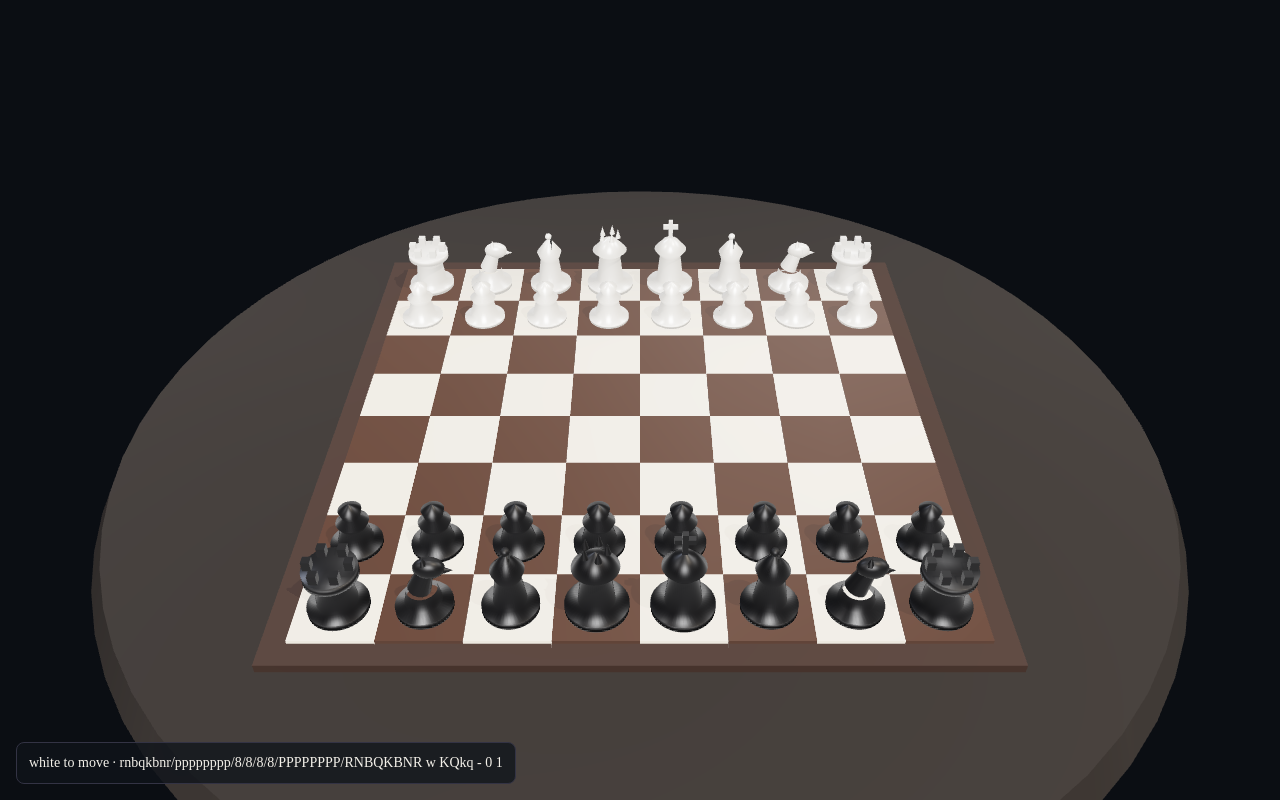
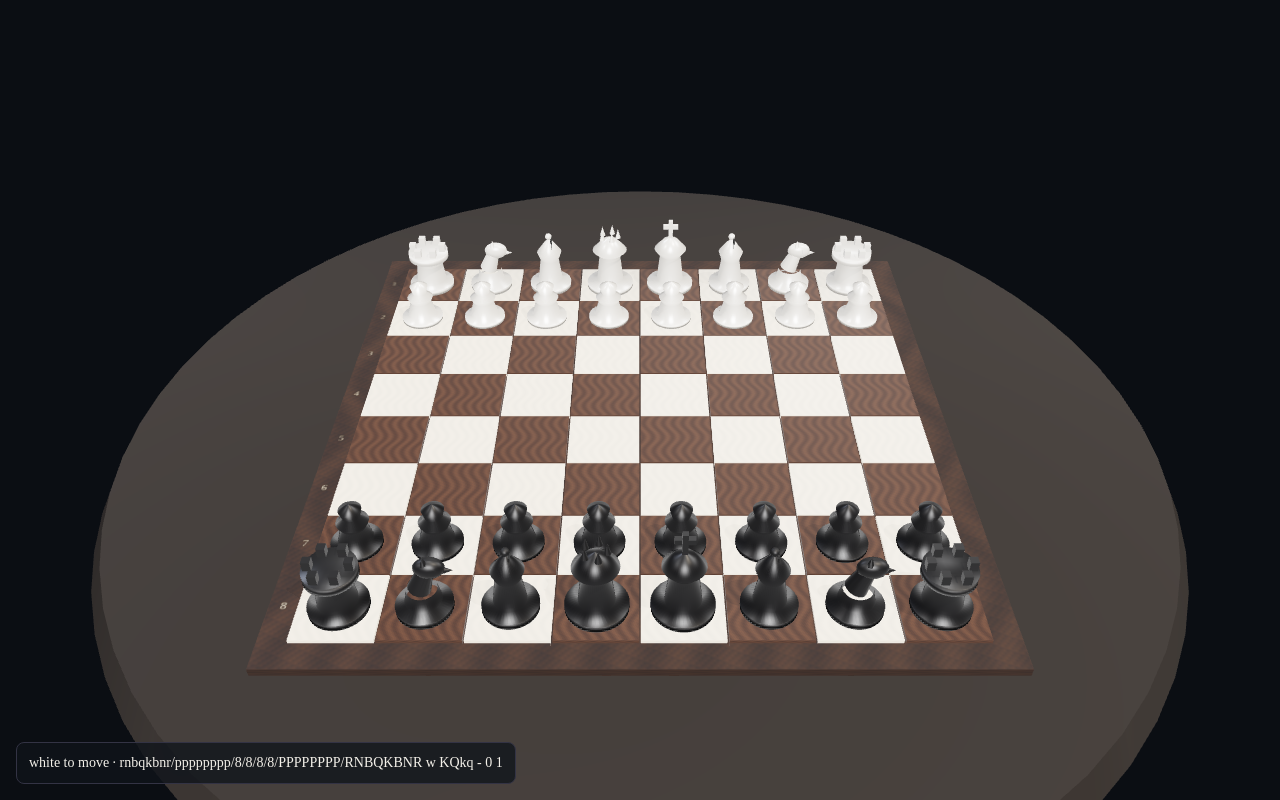
Add wood-grain board, labels, and clearcoat piece materials

diff --git a/board/index.js b/board/index.js
@@ -1,21 +1,63 @@
 import * as THREE from "three";
 
+function woodMap(base, variance, size = 128) {
+  const canvas = document.createElement("canvas");
+  canvas.width = size;
+  canvas.height = size;
+  const ctx = canvas.getContext("2d");
+  const img = ctx.createImageData(size, size);
+  const [br, bg, bb] = base;
+  for (let y = 0; y < size; y += 1) {
+    for (let x = 0; x < size; x += 1) {
+      const grain = Math.sin(x * 0.35 + Math.sin(y * 0.08) * 3) * variance;
+      const noise = ((x * 17 + y * 31) % 13) - 6;
+      const i = (y * size + x) * 4;
+      img.data[i] = Math.max(0, Math.min(255, br + grain + noise));
+      img.data[i + 1] = Math.max(0, Math.min(255, bg + grain * 0.7 + noise * 0.5));
+      img.data[i + 2] = Math.max(0, Math.min(255, bb + grain * 0.4));
+      img.data[i + 3] = 255;
+    }
+  }
+  ctx.putImageData(img, 0, 0);
+  const tex = new THREE.CanvasTexture(canvas);
+  tex.colorSpace = THREE.SRGBColorSpace;
+  tex.wrapS = tex.wrapT = THREE.RepeatWrapping;
+  tex.anisotropy = 4;
+  return tex;
+}
+
+function labelTexture(text) {
+  const canvas = document.createElement("canvas");
+  canvas.width = 64;
+  canvas.height = 64;
+  const ctx = canvas.getContext("2d");
+  ctx.clearRect(0, 0, 64, 64);
+  ctx.fillStyle = "#d8c7a6";
+  ctx.font = "600 36px Georgia, serif";
+  ctx.textAlign = "center";
+  ctx.textBaseline = "middle";
+  ctx.fillText(text, 32, 34);
+  const tex = new THREE.CanvasTexture(canvas);
+  tex.colorSpace = THREE.SRGBColorSpace;
+  return tex;
+}
+
 export function createBoard(scene) {
   const root = new THREE.Group();
   root.name = "board";
   const lightMat = new THREE.MeshStandardMaterial({
-    color: 0xe8d7bb,
-    roughness: 0.32,
-    metalness: 0.1,
+    map: woodMap([232, 215, 187], 10),
+    roughness: 0.34,
+    metalness: 0.08,
   });
   const darkMat = new THREE.MeshStandardMaterial({
-    color: 0x3f281c,
-    roughness: 0.42,
-    metalness: 0.14,
+    map: woodMap([63, 40, 28], 8),
+    roughness: 0.44,
+    metalness: 0.12,
   });
   for (let rank = 0; rank < 8; rank += 1) {
     for (let file = 0; file < 8; file += 1) {
-      const tile = new THREE.Mesh(new THREE.BoxGeometry(1, 0.12, 1), (file + rank) % 2 === 0 ? darkMat : lightMat);
+      const tile = new THREE.Mesh(new THREE.BoxGeometry(0.98, 0.12, 0.98), (file + rank) % 2 === 0 ? darkMat : lightMat);
       tile.position.set(file - 3.5, 0, rank - 3.5);
       tile.receiveShadow = true;
       tile.userData = { square: `${String.fromCharCode(97 + file)}${rank + 1}` };
@@ -23,12 +65,44 @@ export function createBoard(scene) {
     }
   }
   const rim = new THREE.Mesh(
-    new THREE.BoxGeometry(8.6, 0.18, 8.6),
-    new THREE.MeshStandardMaterial({ color: 0x2b1a12, roughness: 0.7 }),
+    new THREE.BoxGeometry(8.7, 0.22, 8.7),
+    new THREE.MeshStandardMaterial({
+      map: woodMap([40, 24, 16], 6, 256),
+      roughness: 0.55,
+      metalness: 0.1,
+    }),
   );
-  rim.position.y = -0.08;
+  rim.position.y = -0.1;
   rim.receiveShadow = true;
   root.add(rim);
+
+  const bevel = new THREE.Mesh(
+    new THREE.BoxGeometry(9.05, 0.08, 9.05),
+    new THREE.MeshStandardMaterial({ color: 0x1a100c, roughness: 0.65, metalness: 0.05 }),
+  );
+  bevel.position.y = -0.22;
+  bevel.receiveShadow = true;
+  root.add(bevel);
+
+  for (let file = 0; file < 8; file += 1) {
+    const letter = new THREE.Mesh(
+      new THREE.PlaneGeometry(0.28, 0.28),
+      new THREE.MeshBasicMaterial({ map: labelTexture(String.fromCharCode(97 + file)), transparent: true }),
+    );
+    letter.rotation.x = -Math.PI / 2;
+    letter.position.set(file - 3.5, 0.07, -4.15);
+    root.add(letter);
+  }
+  for (let rank = 0; rank < 8; rank += 1) {
+    const num = new THREE.Mesh(
+      new THREE.PlaneGeometry(0.28, 0.28),
+      new THREE.MeshBasicMaterial({ map: labelTexture(String(rank + 1)), transparent: true }),
+    );
+    num.rotation.x = -Math.PI / 2;
+    num.position.set(-4.15, 0.07, rank - 3.5);
+    root.add(num);
+  }
+
   scene.add(root);
   return root;
 }

diff --git a/pieces/index.js b/pieces/index.js
@@ -12,12 +12,14 @@ function makeLathe(profile, material, segments = 48) {
   return mesh;
 }
 
-function woodMaterial(color, roughness, metalness) {
-  return new THREE.MeshStandardMaterial({
+function woodMaterial(color, roughness, metalness, clearcoat = 0.2) {
+  return new THREE.MeshPhysicalMaterial({
     color,
     roughness,
     metalness,
-    envMapIntensity: 1.1,
+    clearcoat,
+    clearcoatRoughness: 0.42,
+    envMapIntensity: 1.15,
   });
 }
 
@@ -153,6 +155,7 @@ export function createPieceMesh(type, color) {
     color === "white" ? 0xf7f1e6 : 0x141416,
     color === "white" ? 0.22 : 0.36,
     color === "white" ? 0.28 : 0.2,
+    color === "white" ? 0.4 : 0.18,
   );
   if (type === "n") {
     const knight = makeKnight(material);
